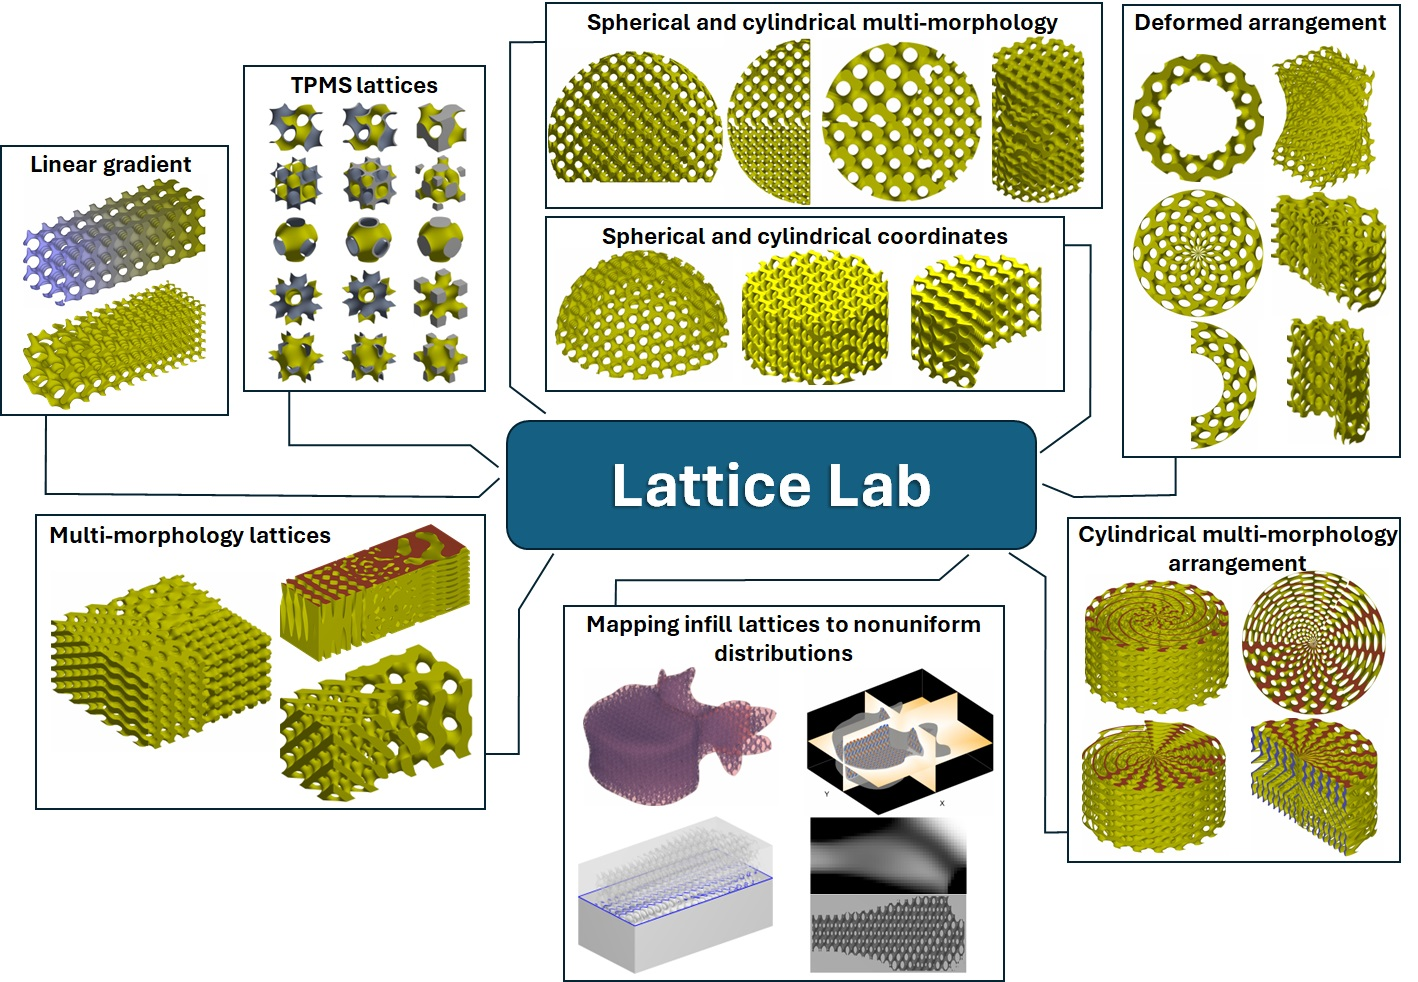
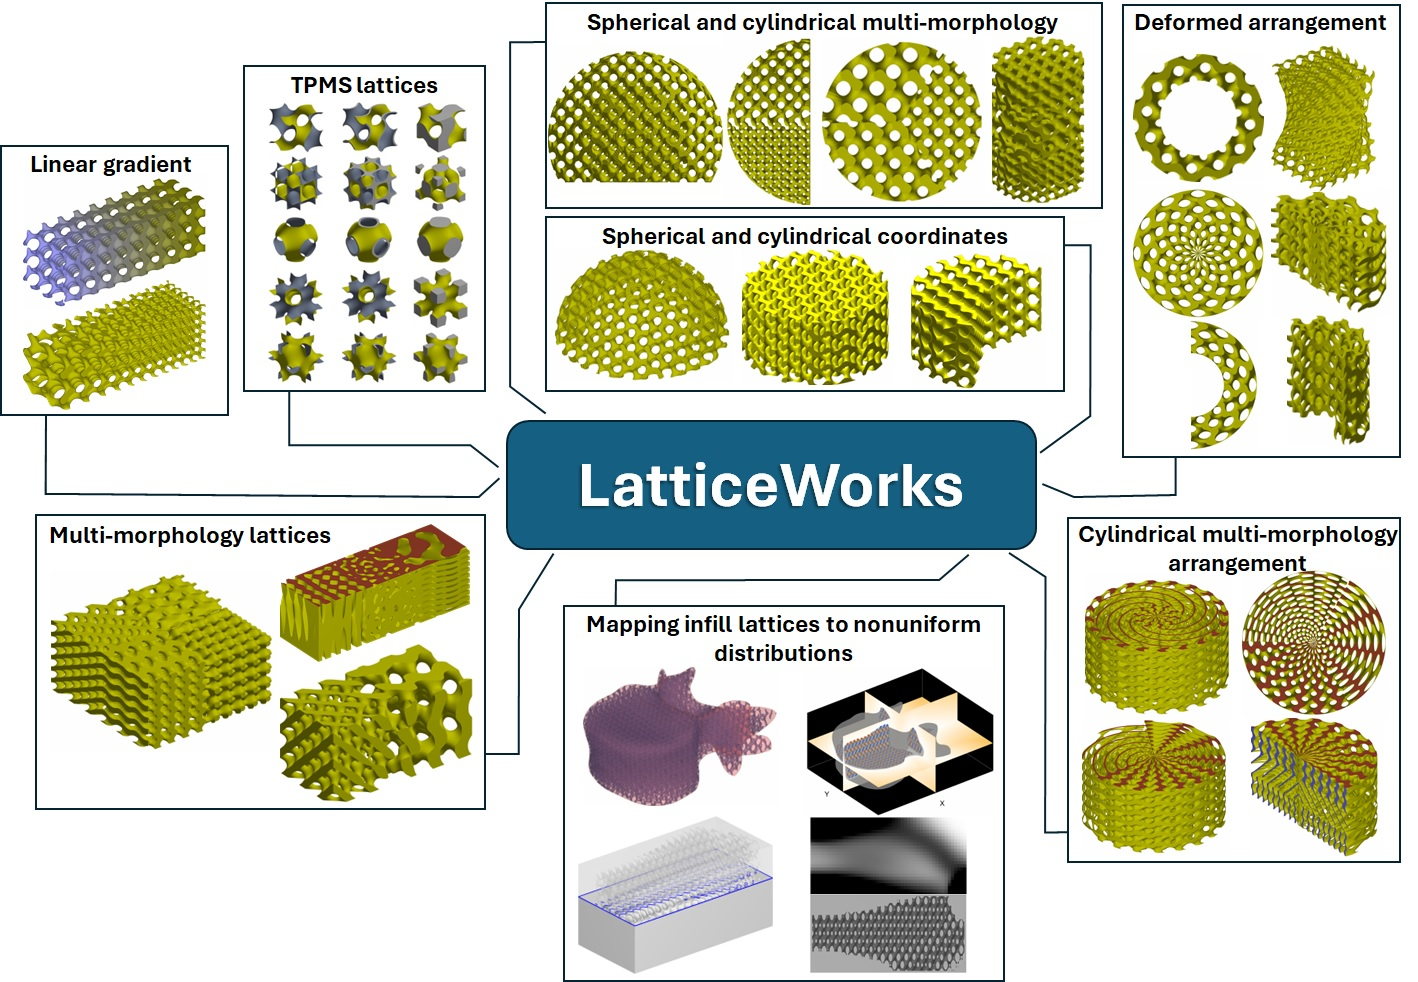
Renamed to LatticeWorks

Changed region(s): [[0.4034, 0.4582, 0.6827, 0.5193]]

diff --git a/README.md b/README.md
@@ -1,10 +1,10 @@
-# Lattice_Structures
+# LatticeWorks
 
-[![License: MIT](https://img.shields.io/badge/License-MIT-yellow.svg)](https://github.com/mahtab-vafaee/Lattice_Structures/blob/main/LICENSE)
+[![License: MIT](https://img.shields.io/badge/License-MIT-yellow.svg)](https://github.com/mahtab-vafaee/LatticeWorks/blob/main/LICENSE)
 
 This is a MATLAB toolbox for creating and customizing lattice structures, multi-morphology lattices, and lattices in different coordinates and arrangements. 
 
-[![graphAbstract](docs/html/graphAbstract.jpg)](https://github.com/mahtab-vafaee/Lattice_Structures/tree/main)
+[![graphAbstract](docs/html/graphAbstract.jpg)](https://github.com/mahtab-vafaee/LatticeWorks/tree/main)
 
 # Getting started
 ## Installation
@@ -34,5 +34,6 @@ Examples are contained in the `docs` folder.
 # Contributing
 We welcome submissions. If you'd like to contribute please file a pull request or post an issue. Thanks! 
 
-# License
-This work is licensed under the [MIT License](https://github.com/mahtab-vafaee/Lattice_Structures/blob/main/LICENSE)
+# License <a name="License"></a>
+GIBBON is provided under:
+[![License: MIT](https://img.shields.io/badge/License-MIT-yellow.svg)](https://github.com/mahtab-vafaee/LatticeWorks/blob/main/LICENSE). The [license file](https://github.com/mahtab-vafaee/LatticeWorks/blob/main/LICENSE) is found on the GitHub repository.
